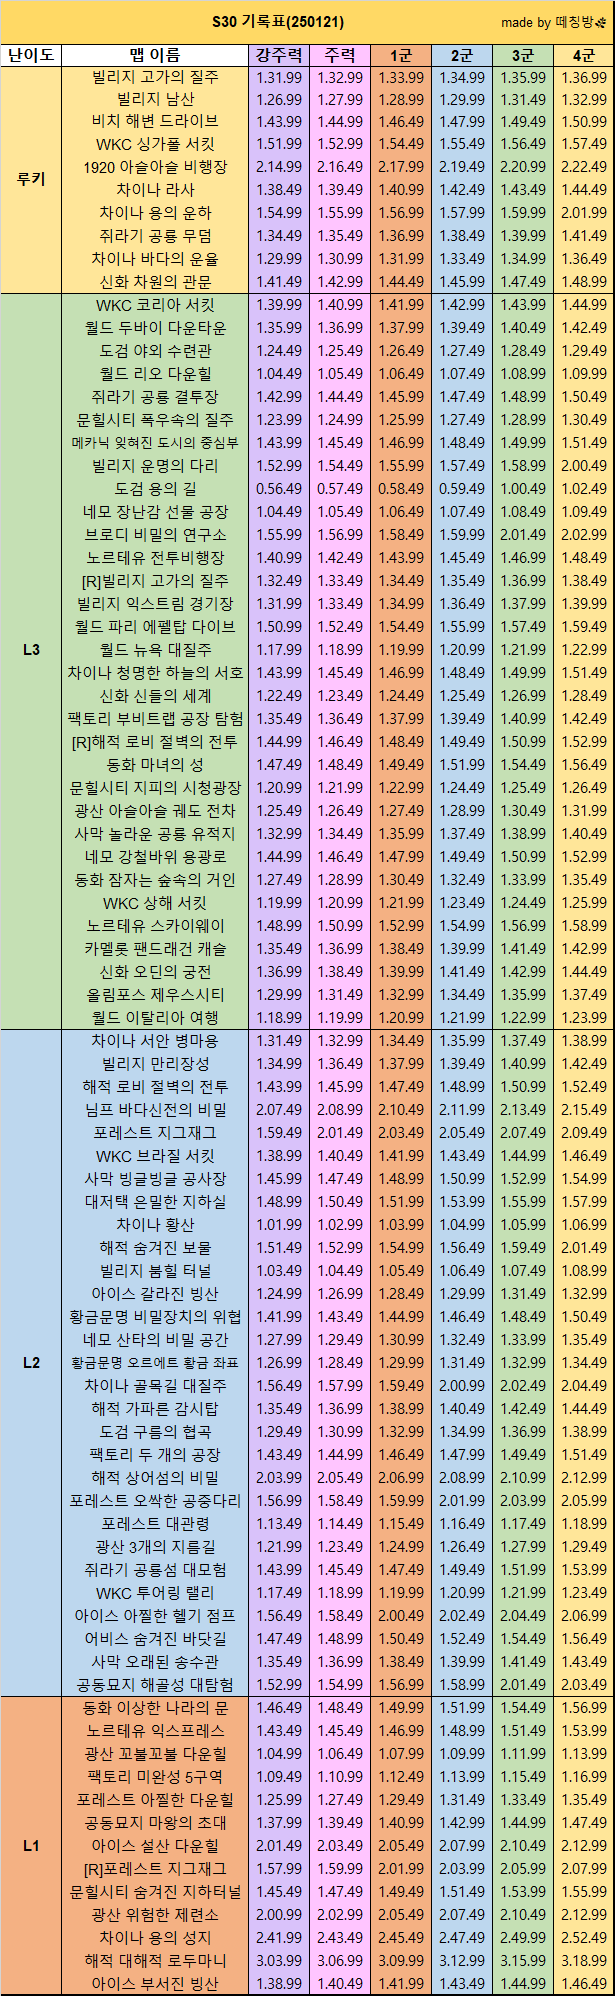
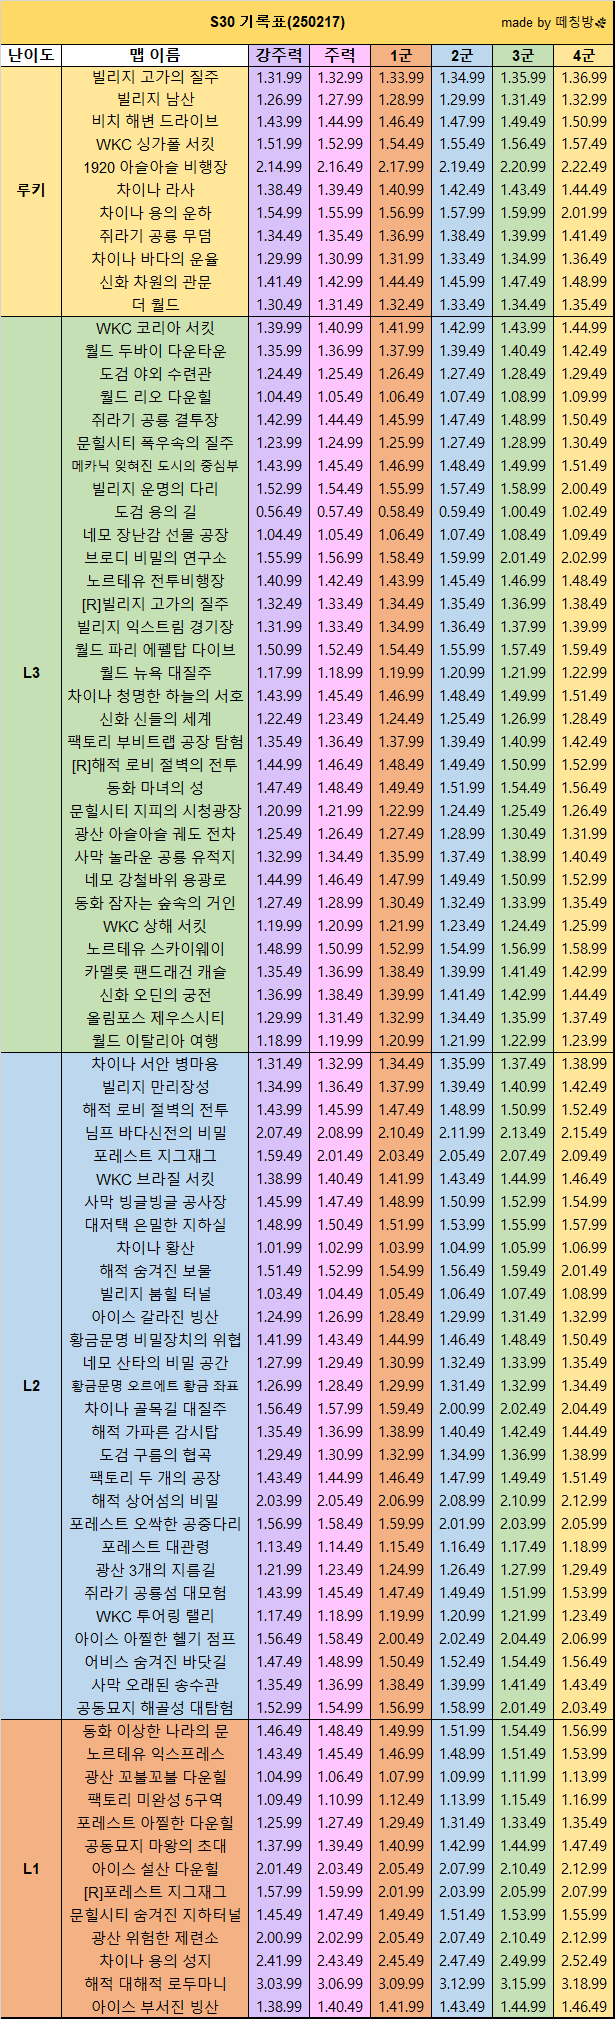
[frontend] feat: New S30 track

Changed region(s): [[0.0, 0.0, 0.9886, 1.0], [0.0309, 0.3106, 0.0618, 0.3417], [0.0309, 0.0621, 0.0618, 0.0932]]

diff --git a/client/src/global/mapImages.js b/client/src/global/mapImages.js
@@ -8,6 +8,7 @@ import Rookie_007 from "../assets/images/map/007 용의운하.png";
 import Rookie_008 from "../assets/images/map/008 쥐공무.png";
 import Rookie_009 from "../assets/images/map/009 차이나 바다의 운율.png";
 import Rookie_010 from "../assets/images/map/010 신화 차원의 관문.png";
+import Rookie_011 from "../assets/images/map/011 더 월드.png";
 
 import L3_001 from "../assets/images/map/001 코리아서킷.png";
 import L3_002 from "../assets/images/map/002 두바이.png";
@@ -98,6 +99,7 @@ const mapImages = [
   Rookie_008,
   Rookie_009,
   Rookie_010,
+  Rookie_011,
 
   L3_001,
   L3_002,

diff --git a/client/src/global/mapData.js b/client/src/global/mapData.js
@@ -129,6 +129,19 @@ const mapData = [
     ],
     image: "010 신화 차원의 관문.png",
   },
+  {
+    name: "더 월드",
+    record: [
+      "01:30:49",
+      "01:31:49",
+      "01:32:49",
+      "01:33:49",
+      "01:34:49",
+      "01:35:49",
+      "01:35:49 +",
+    ],
+    image: "011 더 월드.png",
+  },
 
   {
     name: "WKC 코리아 서킷",
@@ -1110,7 +1123,7 @@ const mapData = [
 ];
 
 const mapCount = {
-  Rookie: 10,
+  Rookie: 11,
   L3: 32,
   L2: 29,
   L1: 13,
